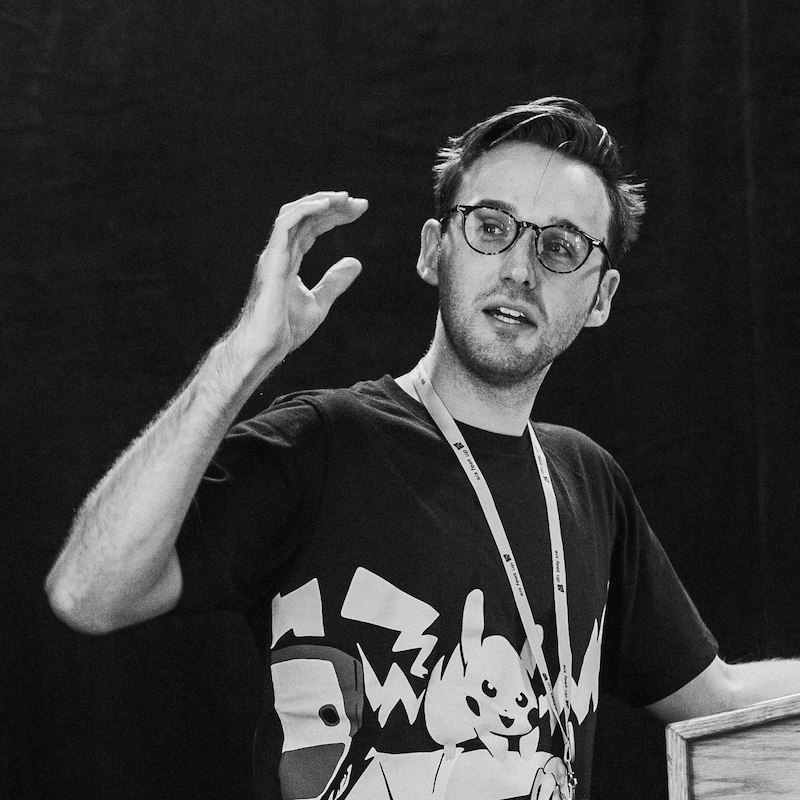
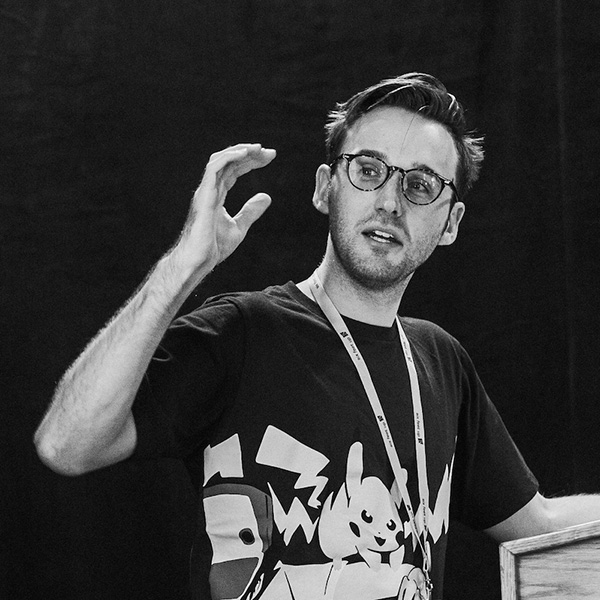
Add gaby, paul, scale images (#17)
* Add gaby

* Add Paul G

* Scale images

diff --git a/input/schedule/index.md b/input/schedule/index.md
@@ -23,7 +23,7 @@ When there’s a bug in a library you are using it’s easy to feel stuck or to 
 </p>
 <div class="media">
   <div class="col-2">
-    <img class="align-self-start mr-3 img-thumbnail" src="/assets/img/speakers/name.png"/>
+    <img class="align-self-start mr-3 img-thumbnail" src="/assets/img/speakers/paulg.jpg"/>
   </div>
   <div class="media-body">
     <h5 class="mt-0">Speaker: Paul Ganssle
